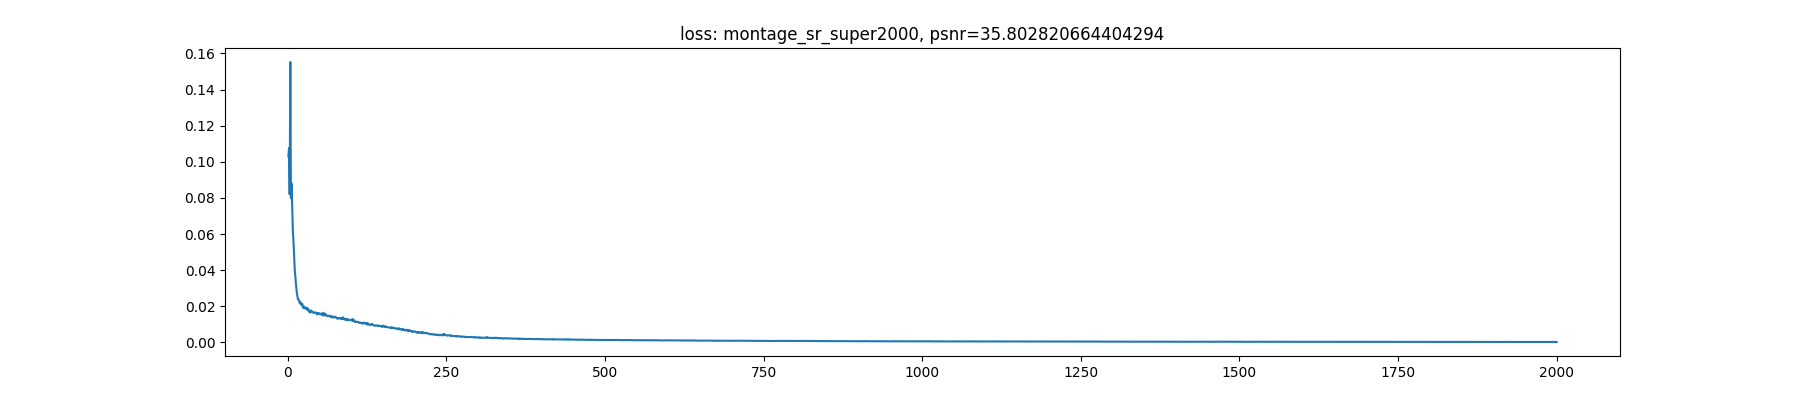
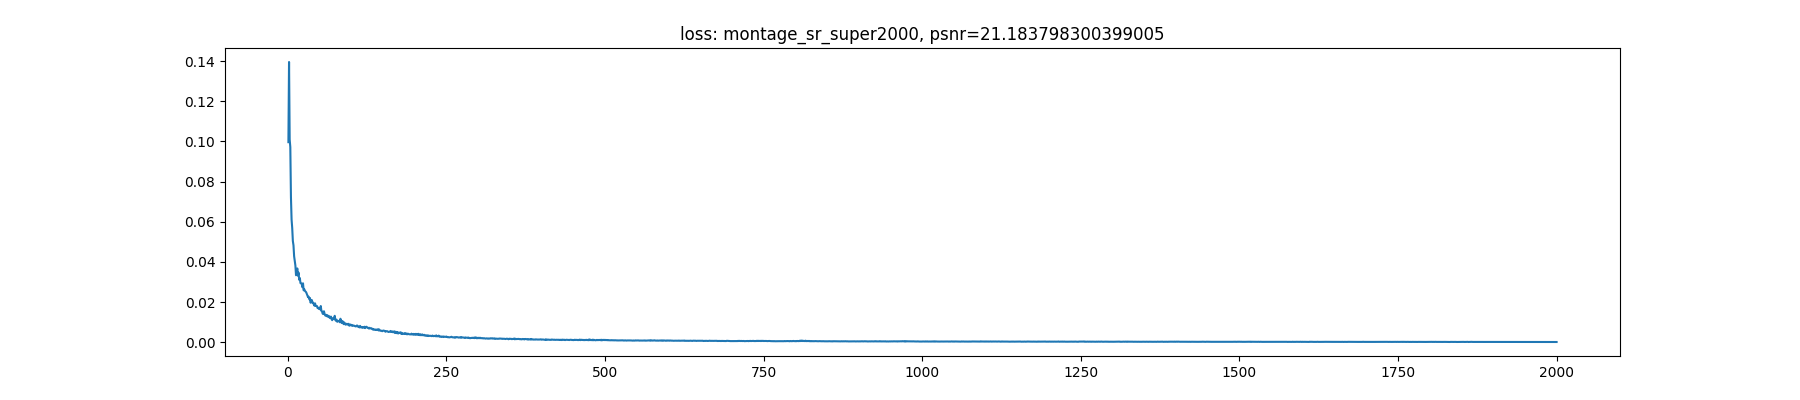
f

diff --git a/main.py b/main.py
@@ -29,6 +29,9 @@ if __name__ == "__main__":
     if args.task != 'super':
         image1 = image.resize((w - w % 32, h - h % 32), resample=Image.LANCZOS)
         image = image.resize((w - w % 32, h - h % 32), resample=Image.LANCZOS)
+    # else:
+    #     image = image.resize((w - w % 32, h - h % 32), resample=Image.LANCZOS)
+    w, h = image.size
     image = np.array(image)
     # print(image.shape)
     black = len(image.shape)==2
@@ -128,11 +131,16 @@ if __name__ == "__main__":
 
 
     elif args.task=='super':
+        if args.name in ['barbara_sr','boat_sr','couple_sr', 'fingerprint_sr','hill_sr','house_sr' ,'indian_sr','lena_sr','man_sr','montage_sr','peppers_sr']:
+            ground_truth = Image.open('./data/sr/{}.png'.format(args.name[:-3]),'r')
+            ground_truth = np.array(ground_truth)
+            ground_truth = np.stack((ground_truth,)*3,axis=-1)
         loss_fn = torch.nn.MSELoss()
+        loss_fn1 = TVLoss(weight=0.01)
         channels = 32
         model = Model(t * image.shape[1], t * image.shape[2], input_channel=channels,channels=[128, 128, 128, 256, 256], skip=[4, 4, 4, 8, 8]).to(device)
         # corrupted_img = (image + torch.randn_like(image) * .1).clip(0, 1)
-        corrupted_img = image
+        corrupted_img = image[:,:,:,:3]
         corrupted_img = corrupted_img.transpose(2, 3).transpose(1, 2).to(device)
         z = torch.rand([1, channels, t * image.shape[1], t * image.shape[2]]) * 0.1
         z = z.to(device)
@@ -150,9 +158,9 @@ if __name__ == "__main__":
             input = z + noise / 30
             # input = z
             img_pred = model(input)
-            # if (epoch + 1) % 3 == 0:
-            #     # img_pred = sharp_model(img_pred)
-            #     img_pred = smooth_model(img_pred)  
+            if (epoch + 1) % 3 == 0:
+                # img_pred = sharp_model(img_pred)
+                img_pred = smooth_model(img_pred)  
             if epoch >= args.epoch - thre :
                 res += img_pred / thre
                 # if epoch == args.epoch - 1:
@@ -179,14 +187,14 @@ if __name__ == "__main__":
         
         elif args.task == 'super':
             noise = torch.randn(z.shape,device=device, requires_grad=True)/30
-            input = z + noise
-            # input = z
+            # input = z + noise
+            input = z
             img_pred = model(input)
-            if (epoch + 1) % 3 == 0:
-                # img_pred = sharp_model(img_pred)
-                img_pred = smooth_model(img_pred)  
+            # if (epoch + 1) % 3 == 0:
+            #     # img_pred = sharp_model(img_pred)
+            #     img_pred = smooth_model(img_pred)  
             pred = downsampler(img_pred)
-            loss = loss_fn(pred, corrupted_img)
+            loss = loss_fn(pred, corrupted_img)+loss_fn1(img_pred)
         
         elif args.task == 'inpaint':
             if args.name == 'library':
@@ -248,11 +256,16 @@ if __name__ == "__main__":
         
     elif args.task == 'super':
         plt.figure(figsize=(18, 4))
-        plt.subplot(1, 3, 1)
-        interpolation1 = upsample(image, t, 1)
-        plt.imshow(interpolation1)
-        plt.title('order=1')
-        
+        if args.name in ['barbara_sr','boat_sr','couple_sr', 'fingerprint_sr','hill_sr','house_sr' ,'indian_sr','lena_sr','man_sr','montage_sr','peppers_sr']:
+            plt.subplot(1, 3, 1)
+            plt.imshow(ground_truth)
+            plt.title('gt')
+        else:
+            plt.subplot(1, 3, 1)
+            interpolation1 = upsample(image, t, 1)
+            plt.imshow(interpolation1)
+            plt.title('order=1')
+            
         plt.subplot(1, 3, 2)
         interpolation1 = upsample(image, t, 4)
         plt.imshow(interpolation1)
@@ -263,20 +276,22 @@ if __name__ == "__main__":
         plt.imshow(pred)
         plt.imsave(f'./Imgs/{args.name}_{args.task}{str(epoch+1)}.png', pred)
         plt.title('Prediction', fontsize=15)
+        psnr = cal_psnr(pred, ground_truth/255., 1)
+        
         plt.savefig(f'Imgs/{args.name}.png')
         origin = image[0].data.numpy()
         plt.imsave(f'./Imgs/{args.name}_gt.png', origin)
 
 
         # calculate psnr
-        downsampler = downsample(3, t, 'gaussian', device).to(device)
-        prediction = Image.open(f'./Imgs/{args.name}_{args.task}{str(epoch+1)}.png', 'r').convert("RGB")
-        prediction = torch.from_numpy(np.array(prediction) / 255.0).unsqueeze(0).float()
-        prediction = prediction.transpose(2, 3).transpose(1, 2).to(device)
-        prediction = downsampler(prediction)
-        prediction = prediction[0].cpu().transpose(0, 1).transpose(1, 2).data.numpy()
-        ground_truth = np.array(Image.open(f'./Imgs/{args.name}_gt.png', 'r').convert('RGB')) / 255.
-        psnr = cal_psnr(prediction, ground_truth, 1)
+        # downsampler = downsample(3, t, 'gaussian', device).to(device)
+        # prediction = Image.open(f'./Imgs/{args.name}_{args.task}{str(epoch+1)}.png', 'r').convert("RGB")
+        # prediction = torch.from_numpy(np.array(prediction) / 255.0).unsqueeze(0).float()
+        # prediction = prediction.transpose(2, 3).transpose(1, 2).to(device)
+        # prediction = downsampler(prediction)
+        # prediction = prediction[0].cpu().transpose(0, 1).transpose(1, 2).data.numpy()
+        # ground_truth = np.array(Image.open(f'./Imgs/{args.name}_gt.png', 'r').convert('RGB')) / 255.
+        # psnr = cal_psnr(prediction, ground_truth, 1)
     
     plt.figure(figsize=(18, 4))
     # save loss curve and psnr

diff --git a/utils.py b/utils.py
@@ -234,6 +234,12 @@ def name2add(name):
     elif name == 'boat_sr':
         address = './data/sr/boat_sr.png'
         t = 4
+    elif name == 'couple_sr':
+        address = './data/sr/couple_sr.png'
+        t = 4
+    elif name == 'barbara_sr':
+        address = './data/sr/barbara_sr.png'
+        t = 4
     elif name == 'woman':
         address = './data/sr/LRbicx4/woman.png'
         mask_address = './data/sr/original/woman.png'
@@ -242,18 +248,27 @@ def name2add(name):
         address = './data/sr/man_sr.png'
         t = 4
     elif name == 'peppers_sr':
-        address = './data/sr/peppers.png'
+        address = './data/sr/peppers_sr.png'
         t = 4
     elif name == 'indian_sr':
-        address = './data/sr/indian.png'
+        address = './data/sr/indian_sr.png'
         t = 4
     elif name == 'house_sr':
-        address = './data/sr/house.png'
+        address = './data/sr/house_sr.png'
         t = 4
     elif name == 'montage_sr':
-        address = './data/sr/montage.png'
+        address = './data/sr/montage_sr.png'
         t = 4
-    elif name == 'cv':
+    elif name == 'lena_sr':
+        address = './data/sr/lena_sr.png'
+        t = 4
+    elif name == 'fingerprint_sr':
+        address = './data/sr/fingerprint_sr.png'
+        t = 4    
+    elif name == 'hill_sr':
+        address = './data/sr/hill_sr.png'
+        t = 4
+    elif name == 'cv_sr':
         address = './data/sr/cv_sr.jpg'
         t = 4
     elif name == 'butterfly':
@@ -264,6 +279,9 @@ def name2add(name):
         address = './data/sr/LRbicx4/bird.png'
         mask_address = './data/sr/original/bird.png'
         t = 4
+    elif name == 'couple_sr':
+        address = './data/sr/couple_sr.png'
+        t = 4
     elif name == 'head':
         address = './data/sr/LRbicx4/head.png'
         mask_address = './data/sr/original/head.png'
@@ -272,6 +290,7 @@ def name2add(name):
 
 
 def pepper_and_salt(img,percentage):
+    
     num=int(percentage*img.shape[0]*img.shape[1])
     random.randint(0, img.shape[0])
     img2=img.copy()

diff --git a/preprocess.py b/preprocess.py
@@ -1,0 +1,29 @@
+import numpy as np
+from PIL import Image
+import matplotlib.pyplot as plt
+from sample import downsample
+import torch
+from utils import *
+
+def process(address,name):
+    downsampler = downsample(3, 4, kernel_mode='gaussian', device = 'cuda')
+    img = Image.open(address)
+    w,h=img.size
+    img=img.resize((w - w % 32, h - h % 32), resample=Image.LANCZOS)
+    img = np.array(img)
+    img = np.stack((img,)*3,axis=-1)
+    img = torch.from_numpy(img/255.).unsqueeze(0).float().transpose(2,3).transpose(1,2).to('cuda')
+    img1 = downsampler(img)
+    img2 = img1[0].cpu().transpose(0,1).transpose(1,2).data.numpy()
+    assert img2.shape[2]==3
+    plt.imsave('./data/sr/{}_sr.png'.format(name),img2)
+    
+    
+if __name__ =='__main__':
+    ## Warning DO NOT RUN THIS FILE!!!!
+    l = ['barbara','boat','couple', 'fingerprint','hill','house','indian','lena','man','montage','peppers']
+    for name in l:
+        address,_,_=name2add(name+'_sr')
+        print(name)
+        process(address,name)
+    pass
